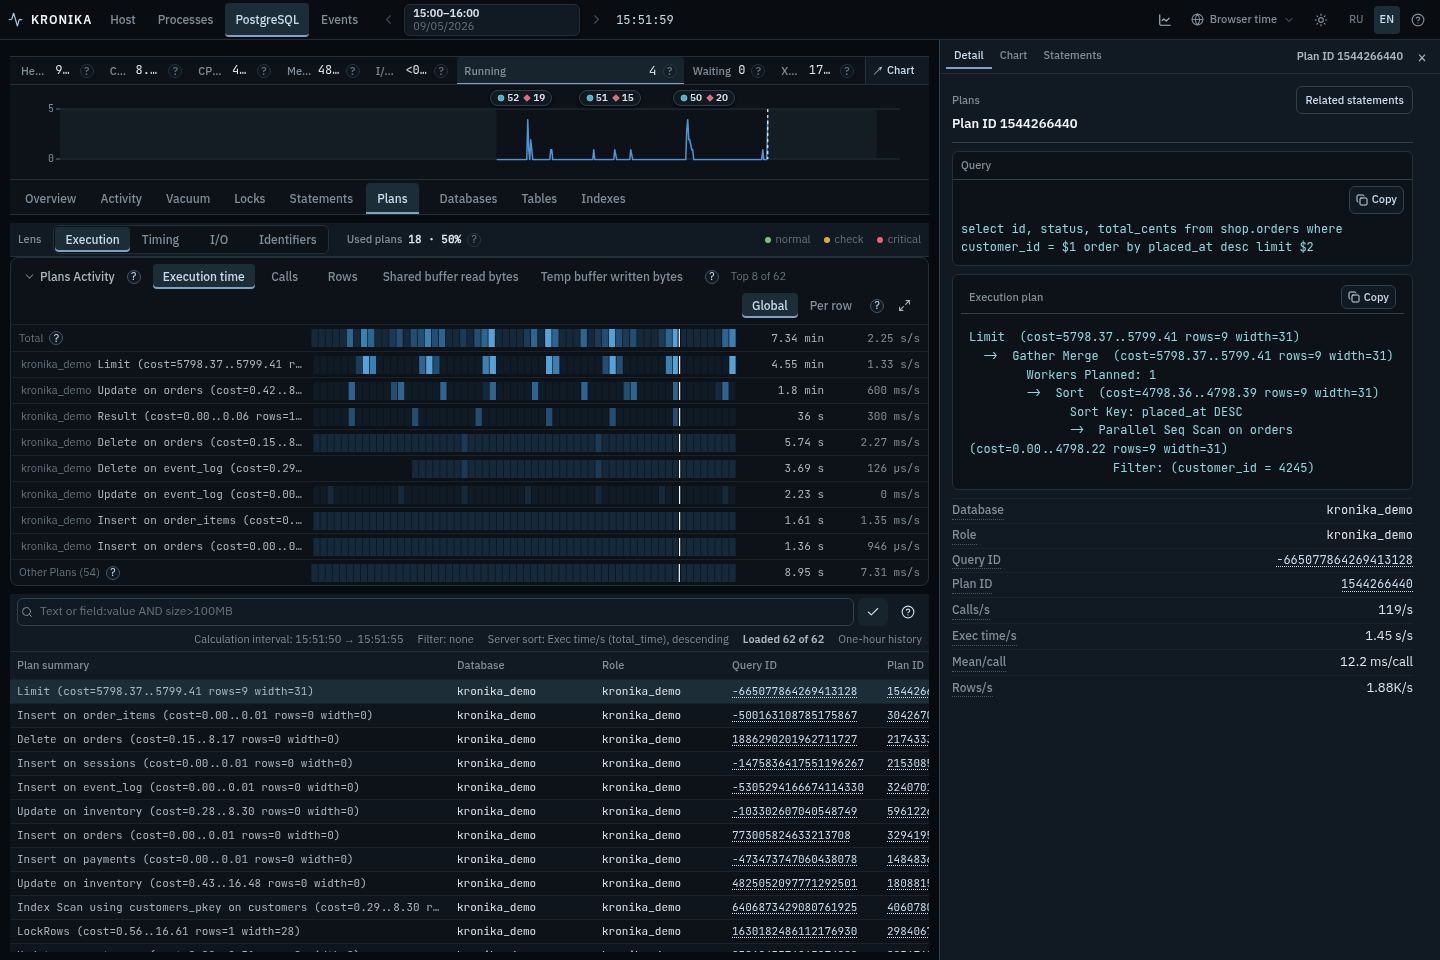
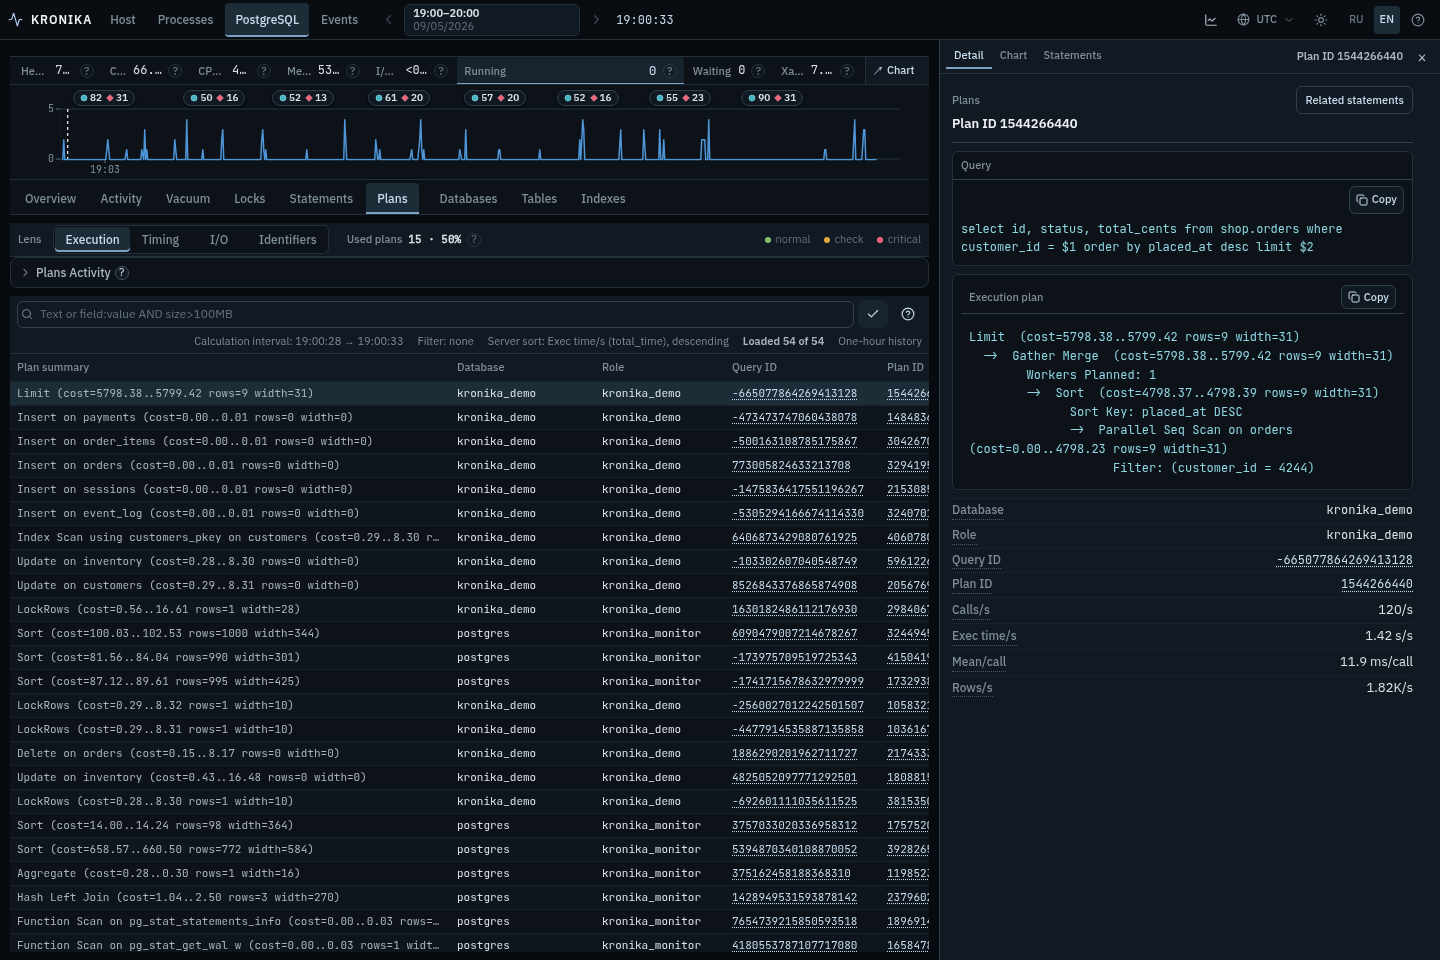
Link the recorded hour and show its real process, query and plan views

diff --git a/README.ru.md b/README.ru.md
@@ -13,9 +13,10 @@ Kronika выберите интервал и нажмите **«Экспорт»
 коллеге: он откроет его в браузере без установки Kronika, сервера и подключения
 к интернету. Таблицы, heatmap, поиск и графики останутся интерактивными.
 
-**[Открыть интерактивное демо →](https://vadv.github.io/kronika-reports/reports/kronika-container-demo-20min-77c422e.html)**
-Попробуйте такой HTML-отчёт на 20-минутной записи синтетической нагрузки Linux
-и PostgreSQL. Установка и вход не нужны; сохраните файл, чтобы открыть его без сети.
+**[Открыть интерактивное демо →](https://vadv.github.io/kronika-reports/reports/kronika-demo-hour-b3ac3ee.html)**
+Попробуйте такой HTML-отчёт на часовой записи синтетической нагрузки Linux
+и PostgreSQL: 5 сентября 2026 года, 19:00–20:00 UTC.
+Установка и вход не нужны; сохраните файл, чтобы открыть его без сети.
 
 ![Processes: heatmap нагрузки на CPU над таблицей процессов](docs/images/processes.png)
 
@@ -25,10 +26,11 @@ Kronika выберите интервал и нажмите **«Экспорт»
 ## Попробовать локально
 
 Для работающего демо нужен Docker с Compose v2 на Linux amd64 или arm64.
-Клонируйте репозиторий и выполните команды из его корня:
+Команды выбирают текущую ветку для ревью с описанными здесь возможностями
+и запускают демо из корня репозитория:
 
 ```sh
-git clone https://github.com/vadv/Kronika.git kronika
+git clone --branch fix/events-count-scope https://github.com/vadv/Kronika.git kronika
 cd kronika
 docker compose --file compose.demo.yml up --build --wait
 ```
@@ -61,6 +63,10 @@ Statements и Plans используют историю `pg_stat_statements` и 
 если эти расширения установлены.
 
 ![Plans: записанный план выполнения и связанный SQL в синтетическом демо](docs/images/plans.png)
+
+*Выбранный план и SQL взяты из того же часа. В этой записи Plans Activity
+недоступна из-за повторяющихся идентификаторов одного записанного плана;
+таблица и Inspector работают.*
 
 За тот же период можно посмотреть **ожидания backends и блокирующие процессы**,
 **ход Vacuum**, **активность таблиц и индексов**, **события из логов PostgreSQL**.

diff --git a/README.md b/README.md
@@ -12,9 +12,10 @@ interface, choose an interval and click **Export**. Send the downloaded `.html` 
 colleague: they open it in a browser, with no Kronika installation, server,
 or internet connection. Tables, heatmaps, search, and charts remain interactive.
 
-**[Open the interactive demo →](https://vadv.github.io/kronika-reports/reports/kronika-container-demo-20min-77c422e.html)**
-Try that same HTML experience with a 20-minute recording of synthetic Linux
-and PostgreSQL workloads. No installation or login; save the file to use it offline.
+**[Open the interactive demo →](https://vadv.github.io/kronika-reports/reports/kronika-demo-hour-b3ac3ee.html)**
+Try that same HTML experience with a full-hour recording of synthetic Linux
+and PostgreSQL workloads: 5 September 2026, 19:00–20:00 UTC.
+No installation or login; save the file to use it offline.
 
 ![Processes: CPU activity heatmap above the process table](docs/images/processes.png)
 
@@ -23,11 +24,11 @@ select a process to inspect its CPU, memory, and I/O history.*
 
 ## Try it locally
 
-For a live demo, use Docker with Compose v2 on Linux amd64 or arm64. From a
-checkout of this repository:
+For a live demo, use Docker with Compose v2 on Linux amd64 or arm64.
+These commands select the current review branch with the features shown here:
 
 ```sh
-git clone https://github.com/vadv/Kronika.git kronika
+git clone --branch fix/events-count-scope https://github.com/vadv/Kronika.git kronika
 cd kronika
 docker compose --file compose.demo.yml up --build --wait
 ```
@@ -61,6 +62,10 @@ Statements and Plans use the history collected from `pg_stat_statements` and
 `pg_store_plans` when those extensions are installed.
 
 ![Plans: recorded execution plan and related SQL in the synthetic demo](docs/images/plans.png)
+
+*The selected plan and SQL are from this same hour. In this recording,
+Plans Activity is unavailable because one recorded plan has duplicate
+identifiers; the table and Inspector remain usable.*
 
 For the same time period, inspect **backend waits and blocking processes**,
 **Vacuum progress**, **table and index activity**, and **PostgreSQL log events**.

diff --git a/INSTALL.ru.md b/INSTALL.ru.md
@@ -6,8 +6,8 @@
 `kronika-collector`, `kronika-web`, `kronika-dump` и `kronika-report`. Некоторые
 архивы также содержат `kronika-demo`, утилиту запуска нагрузки и сбора.
 `BUILDINFO` указывает ревизию исходного кода упаковки и режим сборки,
-`SHA256SUMS` позволяет проверить бинарные файлы. Они лежат прямо в
-распакованном каталоге; команды ниже выполняются оттуда. Для хранения данных
+`SHA256SUMS` позволяет проверить каждый файл архива. Исполняемые файлы лежат
+прямо в распакованном каталоге; команды ниже выполняются оттуда. Для хранения данных
 самой Kronika не нужны Node.js или база данных.
 
 ## Проверить и распаковать

diff --git a/INSTALL.md b/INSTALL.md
@@ -5,7 +5,7 @@
 This package contains static x86-64 Linux executables: `kronika-collector`,
 `kronika-web`, `kronika-dump`, and `kronika-report`. Some packages also include
 `kronika-demo`, the workload and collection runner. `BUILDINFO` identifies the
-packaging source revision and build mode. `SHA256SUMS` checks the binaries.
+packaging source revision and build mode. `SHA256SUMS` checks every packaged file.
 The executables sit directly in the extracted directory; run the commands
 below there. No Node.js or database is required for Kronika's own storage.
 
